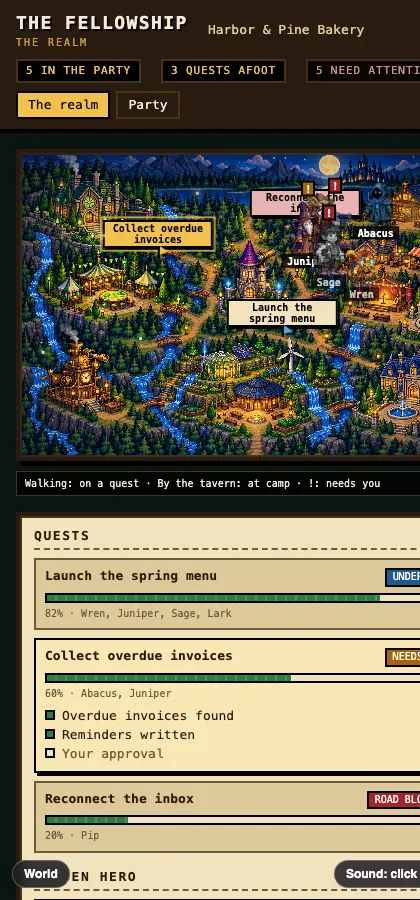
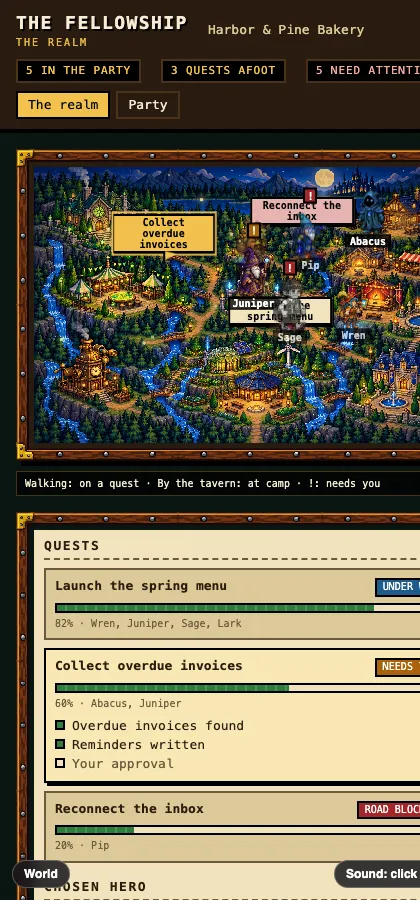
Store: UI kits on The Elementals 1.2, The Fellowship 1.7, Mosswood 1.6, Petal Desk 1.7, Goddess Temple 1.7, Neon Underground 1.4 and Pixel HQ 1.4

diff --git a/public/store/decks/demo/fellowship/index.html b/public/store/decks/demo/fellowship/index.html
@@ -17,7 +17,7 @@
   #err { display: none; margin: 12px 16px 0; padding: 10px 14px; background: #3b0f12; color: #ffd9d9; border: 3px solid var(--bad); }
   .shell { display: grid; grid-template-columns: minmax(0, 1fr) 350px; gap: 16px; padding: 16px; max-width: 1560px; margin: 0 auto; align-items: start; }
   /* the realm: the map is the stage and everyone walks on it */
-  #realm { position: relative; aspect-ratio: 3 / 2; background: url("art/map.webp") center / 100% 100%; image-rendering: pixelated; border: 4px solid var(--wood); box-shadow: 0 0 0 2px var(--wood-hi) inset, 5px 5px 0 #000; overflow: hidden; }
+  #realm { position: relative; aspect-ratio: 3 / 2; background: url("art/map.webp") center / 100% 100%; image-rendering: pixelated; border: 18px solid transparent; border-image: url("art/frames/panel.webp") 46 round; image-rendering: pixelated; box-shadow: 5px 5px 0 #000; background-repeat: no-repeat; background-origin: padding-box; background-color: var(--wood); overflow: hidden; }
   .flag { position: absolute; transform: translate(-50%, -100%); background: var(--parch); border: 2px solid #000; box-shadow: 2px 2px 0 #000; padding: 1px 6px; font: 700 10px var(--px); max-width: 24%; text-align: center; cursor: pointer; z-index: 5; overflow-wrap: anywhere; }
   .flag::after { content: ""; position: absolute; left: 50%; top: 100%; width: 2px; height: 12px; background: #000; z-index: 1; } .flag.sel { background: var(--gold); z-index: 6; } .flag.blocked { background: #e7b3b0; } .flag.done { opacity: .6; } .flag:focus-visible { outline: 2px solid #fff; }
   .hero { position: absolute; width: 5.6%; min-width: 34px; aspect-ratio: 40 / 62; transform: translate(-50%, -92%); transition: left linear, top linear; cursor: pointer; border: 0; padding: 0; background: none; }
@@ -30,7 +30,7 @@
   .hero.sel .tagn { background: var(--gold); color: #000; } .hero:focus-visible { outline: 2px solid #fff; outline-offset: 2px; }
   .legend { position: absolute; left: 8px; bottom: 8px; background: rgba(0, 0, 0, .7); color: var(--light); font-size: 10px; padding: 3px 8px; border: 1px solid var(--wood-hi); z-index: 7; }
   /* the side book: quests, the chosen card, seals, chronicle */
-  .book { background: var(--parch); border: 4px solid var(--wood); box-shadow: 0 0 0 2px var(--wood-hi) inset, 5px 5px 0 #000; padding: 12px 14px; min-width: 0; }
+  .book { background: var(--parch); border: 18px solid transparent; border-image: url("art/frames/panel.webp") 46 round; image-rendering: pixelated; box-shadow: 5px 5px 0 #000; background-clip: padding-box; padding: 8px 10px; min-width: 0; }
   h2 { font: 700 13px var(--px); letter-spacing: .12em; text-transform: uppercase; margin: 16px 0 8px; padding-bottom: 5px; border-bottom: 2px dashed var(--mute); } h2:first-child { margin-top: 0; }
   .quest { display: block; width: 100%; text-align: left; font: inherit; color: inherit; background: var(--parch-lo); border: 2px solid var(--mute); padding: 7px 9px; margin-bottom: 8px; cursor: pointer; } .quest.sel { border-color: #000; box-shadow: 3px 3px 0 #000; background: #f7e7b4; } .quest:focus-visible { outline: 2px solid var(--info); outline-offset: 2px; }
   .qrow { display: flex; gap: 8px; justify-content: space-between; align-items: baseline; } .qt { font-weight: 700; overflow-wrap: anywhere; }

diff --git a/public/store/decks/demo/fellowship/council.html b/public/store/decks/demo/fellowship/council.html
@@ -23,7 +23,7 @@
   .metric b { display: block; font-size: 20px; line-height: 1.1; color: var(--gold); } .metric span { font-size: 10px; text-transform: uppercase; letter-spacing: .08em; }
   .metric.alert b { color: #ff8a80; } .metric.zero b { color: var(--parch-lo); }
   main { max-width: 1280px; margin: 0 auto; padding: 16px; display: grid; grid-template-columns: repeat(auto-fit, minmax(300px, 1fr)); gap: 18px; }
-  section { background: var(--parch); border: 4px solid var(--wood); box-shadow: 0 0 0 2px var(--wood-hi) inset, 5px 5px 0 #000; padding: 12px 14px; min-width: 0; }
+  section { background: var(--parch); border: 18px solid transparent; border-image: url("art/frames/panel.webp") 46 round; image-rendering: pixelated; box-shadow: 5px 5px 0 #000; background-clip: padding-box; padding: 8px 10px; min-width: 0; }
   section.attn { box-shadow: 0 0 0 2px var(--gold) inset, 5px 5px 0 #000; }
   section.wide { grid-column: 1 / -1; }
   h2 { font: 700 13px var(--px); letter-spacing: .14em; text-transform: uppercase; margin: 0 0 10px; padding-bottom: 6px; border-bottom: 2px dashed var(--mute); }
